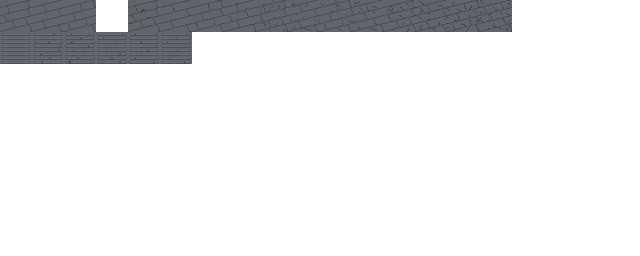
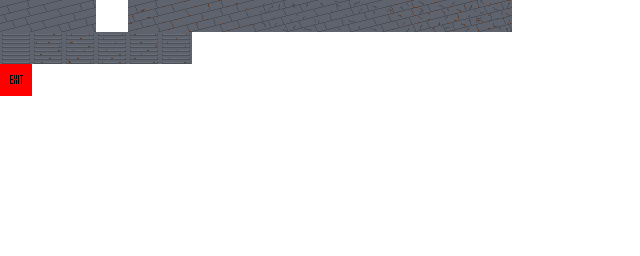
Fix object dictionary and level builds

Changed region(s): [[0.0, 0.25, 0.0625, 0.375]]

diff --git a/AstroMonkey/src/Core/ObjectsDictionary.cs b/AstroMonkey/src/Core/ObjectsDictionary.cs
@@ -23,22 +23,22 @@ namespace AstroMonkey.Core
             [3] = new Tuple<Type, float>(typeof(Assets.Objects.FloorPlatform03), upRotation),
 
             // floor dirty
-            [4] = new Tuple<Type, float>(typeof(Assets.Objects.FloorPlatformDirt01), upRotation),
-            [5] = new Tuple<Type, float>(typeof(Assets.Objects.FloorPlatformDirt02), upRotation),
-            [6] = new Tuple<Type, float>(typeof(Assets.Objects.FloorPlatformDirt03), upRotation),
-            [7] = new Tuple<Type, float>(typeof(Assets.Objects.FloorPlatformDirt04), upRotation),
+            [5] = new Tuple<Type, float>(typeof(Assets.Objects.FloorPlatformDirt01), upRotation),
+            [6] = new Tuple<Type, float>(typeof(Assets.Objects.FloorPlatformDirt02), upRotation),
+            [7] = new Tuple<Type, float>(typeof(Assets.Objects.FloorPlatformDirt03), upRotation),
+            [8] = new Tuple<Type, float>(typeof(Assets.Objects.FloorPlatformDirt04), upRotation),
 
             // floor crushed
-            [8] = new Tuple<Type, float>(typeof(Assets.Objects.FloorPlatformCrush01), upRotation),
-            [9] = new Tuple<Type, float>(typeof(Assets.Objects.FloorPlatformCrush02), upRotation),
-            [10] = new Tuple<Type, float>(typeof(Assets.Objects.FloorPlatformCrush03), upRotation),
-            [11] = new Tuple<Type, float>(typeof(Assets.Objects.FloorPlatformCrush04), upRotation),
+            [9] = new Tuple<Type, float>(typeof(Assets.Objects.FloorPlatformCrush01), upRotation),
+            [10] = new Tuple<Type, float>(typeof(Assets.Objects.FloorPlatformCrush02), upRotation),
+            [11] = new Tuple<Type, float>(typeof(Assets.Objects.FloorPlatformCrush03), upRotation),
+            [12] = new Tuple<Type, float>(typeof(Assets.Objects.FloorPlatformCrush04), upRotation),
 
             // floor crushed and dirty
-            [11] = new Tuple<Type, float>(typeof(Assets.Objects.FloorPlatformDirtyCrush01), upRotation),
-            [12] = new Tuple<Type, float>(typeof(Assets.Objects.FloorPlatformDirtyCrush02), upRotation),
-            [13] = new Tuple<Type, float>(typeof(Assets.Objects.FloorPlatformDirtyCrush03), upRotation),
-            [14] = new Tuple<Type, float>(typeof(Assets.Objects.FloorPlatformDirtyCrush04), upRotation),
+            [13] = new Tuple<Type, float>(typeof(Assets.Objects.FloorPlatformDirtyCrush01), upRotation),
+            [14] = new Tuple<Type, float>(typeof(Assets.Objects.FloorPlatformDirtyCrush02), upRotation),
+            [15] = new Tuple<Type, float>(typeof(Assets.Objects.FloorPlatformDirtyCrush03), upRotation),
+            [16] = new Tuple<Type, float>(typeof(Assets.Objects.FloorPlatformDirtyCrush04), upRotation),
 
             // floor crate
             [21] = new Tuple<Type, float>(typeof(Assets.Objects.FloorCrate01), upRotation),
@@ -48,8 +48,8 @@ namespace AstroMonkey.Core
             [25] = new Tuple<Type, float>(typeof(Assets.Objects.FloorCrate05), upRotation),
             [26] = new Tuple<Type, float>(typeof(Assets.Objects.FloorCrate06), upRotation),
 
-			// exit level
-			[41] = new Tuple<Type, float>(typeof(Assets.Objects.FloorExit), upRotation),
+            // exit level
+            [41] = new Tuple<Type, float>(typeof(Assets.Objects.FloorExit), upRotation),
 
             // FLOOR END
 
